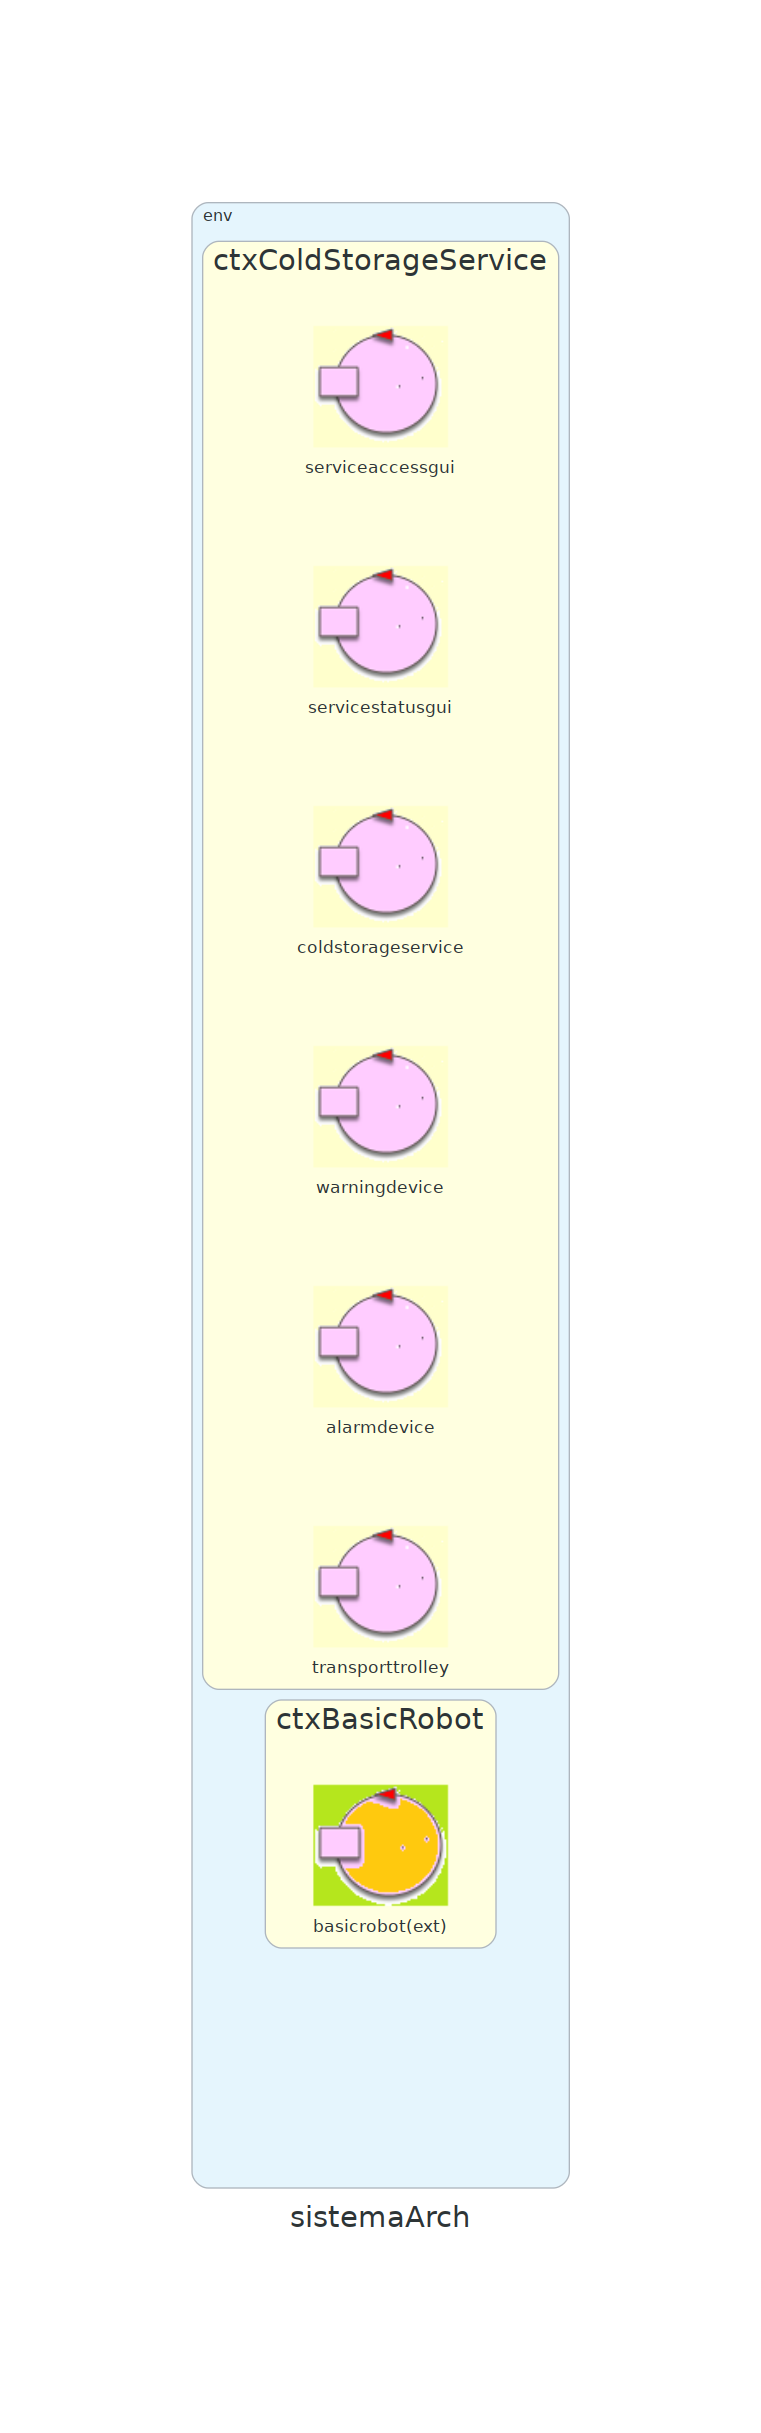
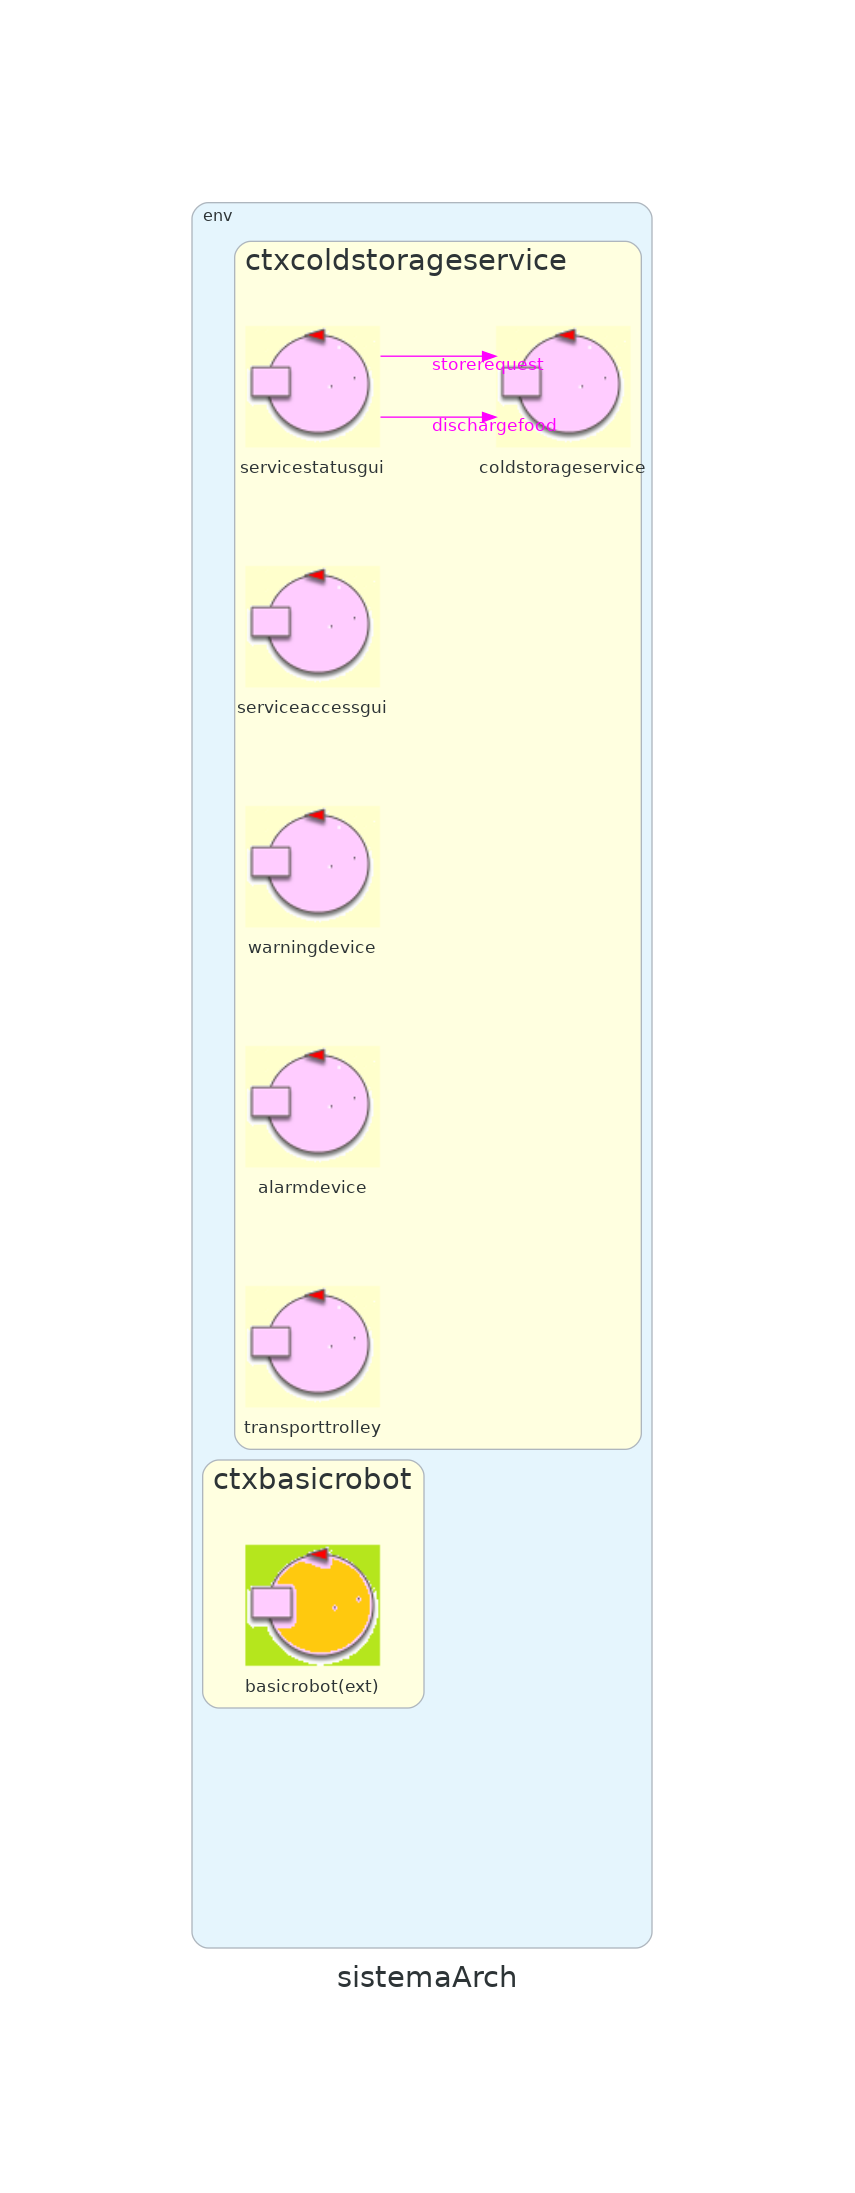
cambiato il qak in modo da avere qualche freccia nel disegno

Changed region(s): [[0.2116, 0.062, 0.7858, 0.9302]]

diff --git a/sprint0V1/test/test/it/unibo/ctxcoldstorageservice/MainCtxcoldstorageserviceKtTest.kt b/sprint0V1/test/test/it/unibo/ctxcoldstorageservice/MainCtxcoldstorageserviceKtTest.kt
@@ -29,8 +29,6 @@ class MainCtxcoldstorageserviceKtTest {
         println(truckRequestStr);
         val responseMessage = conn.request(truckRequestStr)
         println(responseMessage)
-
-        //otteniamo la risposta inm qualche modo
         assertTrue("TEST___ il ticket accettato ",
                 responseMessage.contains("ticketAccepted"));
     }
@@ -42,8 +40,6 @@ class MainCtxcoldstorageserviceKtTest {
         println(truckRequestStr);
         val responseMessage = conn.request(truckRequestStr)
         println(responseMessage)
-
-        //otteniamo la risposta inm qualche modo
         assertTrue("TEST___ il ticket rifiutato",
                 responseMessage.contains("ticketDenied"));
     }
@@ -55,8 +51,6 @@ class MainCtxcoldstorageserviceKtTest {
         println(truckRequestStr);
         val responseMessage = conn.request(truckRequestStr)
         println(responseMessage)
-
-        //otteniamo la risposta inm qualche modo
         assertTrue("TEST___ charge taken",
                 responseMessage.contains("replyChargeTaken"));
     }
@@ -68,8 +62,6 @@ class MainCtxcoldstorageserviceKtTest {
         println(truckRequestStr);
         val responseMessage = conn.request(truckRequestStr)
         println(responseMessage)
-
-        //otteniamo la risposta inm qualche modo
         assertTrue("TEST___ ticket expired",
                 responseMessage.contains("replyTicketExpired"));
     }

diff --git a/sprint0V1/src/it/unibo/servicestatusgui/Servicestatusgui.kt b/sprint0V1/src/it/unibo/servicestatusgui/Servicestatusgui.kt
@@ -21,6 +21,8 @@ class Servicestatusgui ( name: String, scope: CoroutineScope  ) : ActorBasicFsm(
 		return { //this:ActionBasciFsm
 				state("s0") { //this:State
 					action { //it:State
+						request("dischargefood", "dischargefood(EXPIRED)" ,"coldstorageservice" )  
+						request("storerequest", "storerequest(10)" ,"coldstorageservice" )  
 						//genTimer( actor, state )
 					}
 					//After Lenzi Aug2002

diff --git a/sprint0V1/src/it/unibo/ctxbasicrobot/MainCtxbasicrobot.kt b/sprint0V1/src/it/unibo/ctxbasicrobot/MainCtxbasicrobot.kt
@@ -1,0 +1,13 @@
+/* Generated by AN DISI Unibo */ 
+package it.unibo.ctxbasicrobot
+import it.unibo.kactor.QakContext
+import it.unibo.kactor.sysUtil
+import kotlinx.coroutines.runBlocking
+
+fun main() = runBlocking {
+	//System.setProperty(org.slf4j.impl.SimpleLogger.DEFAULT_LOG_LEVEL_KEY, "ERROR");
+	QakContext.createContexts(
+	        "localhost", this, "sistema.pl", "sysRules.pl","ctxbasicrobot"
+	)
+}
+

diff --git a/sprint0V1/Arch_sistema.py b/sprint0V1/Arch_sistema.py
@@ -26,4 +26,6 @@ with Diagram('sistemaArch', show=False, outformat='png', graph_attr=graphattr) a
           warningdevice=Custom('warningdevice','./qakicons/symActorSmall.png')
           alarmdevice=Custom('alarmdevice','./qakicons/symActorSmall.png')
           transporttrolley=Custom('transporttrolley','./qakicons/symActorSmall.png')
+     servicestatusgui >> Edge(color='magenta', style='solid', xlabel='dischargefood', fontcolor='magenta') >> coldstorageservice
+     servicestatusgui >> Edge(color='magenta', style='solid', xlabel='storerequest', fontcolor='magenta') >> coldstorageservice
 diag
